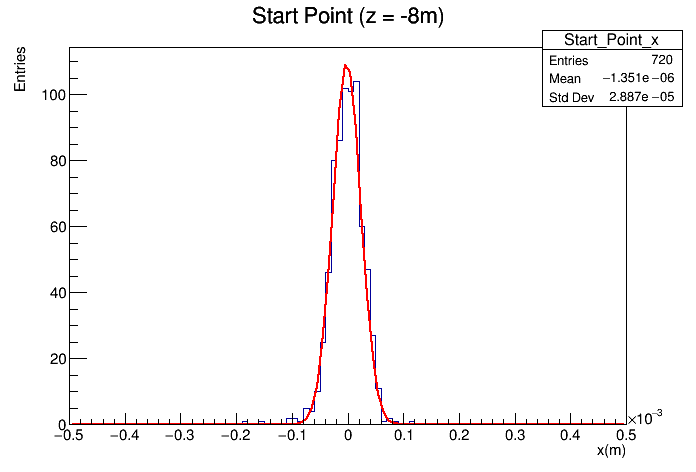
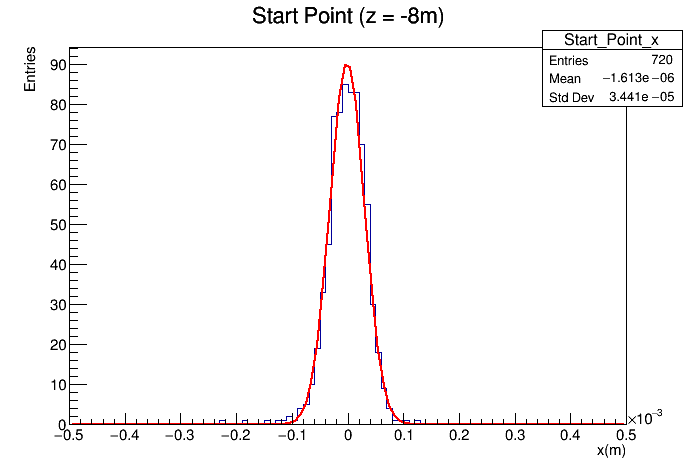
fix bugs

diff --git a/Mu_Analysis.cpp b/Mu_Analysis.cpp
@@ -37,7 +37,7 @@ void DefineHistos(){
     H2.push_back(new TH1F("Start_Point_y","Start Point (z = -8m);y(m);Entries",100,-0.0005,0.0005));
     H2.push_back(new TH1F("Start_Angle_xz","Start Angle in xz plane;/phi (degree);Entries",100,-0.005,0.005));
     H2.push_back(new TH1F("Start_Angle_yz","Start Angle in yz plane;/theta (degree);Entries",100,-0.005,0.005));
-    H2.push_back(new TH1F("Momentum","Momentum;P (GeV);Entries",100,45,55));
+    H2.push_back(new TH1F("Momentum","Momentum;P (GeV);Entries",100,95,105));
 
 
 }
@@ -149,7 +149,7 @@ void DrawHitsLocation(){
 
 double GetMomentum(double x1, double y1, double x2, double y2, double phi1, double phi2){
 
-    double d = sqrt(pow((x2 - x1),2)+1*1);
+    double d = sqrt(pow((x2 - x1),2)+2*2);
     double phi = fabs(phi1-phi2);
     double R = d*0.5/sin(phi/2);
     double Pt = 0.3*0.5*R; // Transverse Momentum Pt = 0.3*z*B*R
@@ -185,17 +185,17 @@ void ReadParameter(TGraph *gr1, TGraph *gr2, TGraph *gr3, TGraph *gr4){
     double c2 = func4->GetParameter(0);
     double d2 = func4->GetParameter(1);
 
-    double x0 = a1+b1*(-8);   // start point
+    double x0 = a1+b1*(-8);   // start point5.7
     double y0 = c1+d1*(-8);
     double phi1 = atan(b1); // angles in DC1
     double theta1 = atan(d1);
     double phi2 = atan(b2); // angles in DC2
     double theta2 = atan(d2);
 
-    double x1 = a1+b1*(-0.5);
-    double y1 = c1+d1*(-0.5);
-    double x2 = a2+b2*(0.5);
-    double y2 = c2+d2*(0.5);  // in and out point of magnetic field
+    double x1 = a1+b1*(-1);
+    double y1 = c1+d1*(-1);
+    double x2 = a2+b2*(1);
+    double y2 = c2+d2*(1);  // in and out point of magnetic field
 
     double P = GetMomentum(x1, y1, x2, y2, phi1, phi2);
 
@@ -236,10 +236,10 @@ void  DrawTracks(){
 
             x[i] = HitsDC1L[i][row][0]*0.001;
             y[i] = HitsDC1L[i][row][1]*0.001;
-            z[i] = HitsDC1L[i][row][2]*0.5-6.25;
+            z[i] = HitsDC1L[i][row][2]*0.5-6;
             x1[i]= HitsDC2L[i][row][0]*0.001;
             y1[i]= HitsDC2L[i][row][1]*0.001;
-            z1[i]= HitsDC1L[i][row][2]*0.5+2.25;
+            z1[i]= HitsDC1L[i][row][2]*0.5+2.5;
       }
 
   //----------for debugging-----
@@ -299,7 +299,7 @@ void Mu_Analysis(){
             string Save(H2[j]->GetName());
             TString SaveAs="Hits/"+Save+".png";
             TCanvas* C=new TCanvas();
-            
+
             std::cout <<" Fit for "<< Save <<" : "<<std::endl;
             H2[j]->Fit("gaus");
             H2[j]->Draw();
